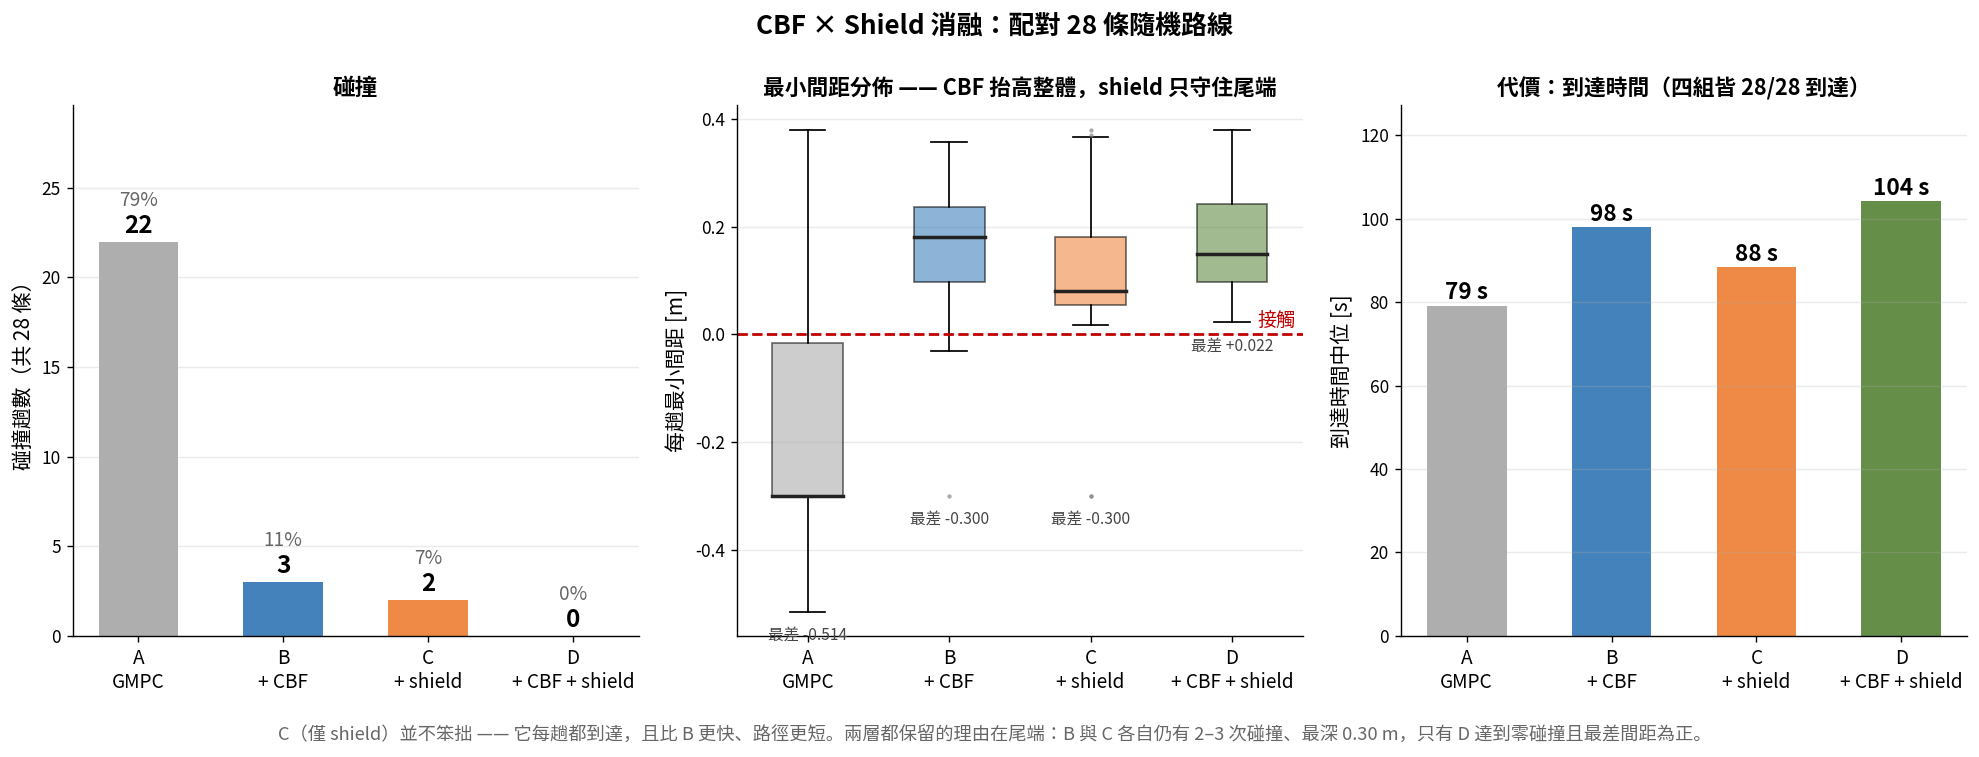
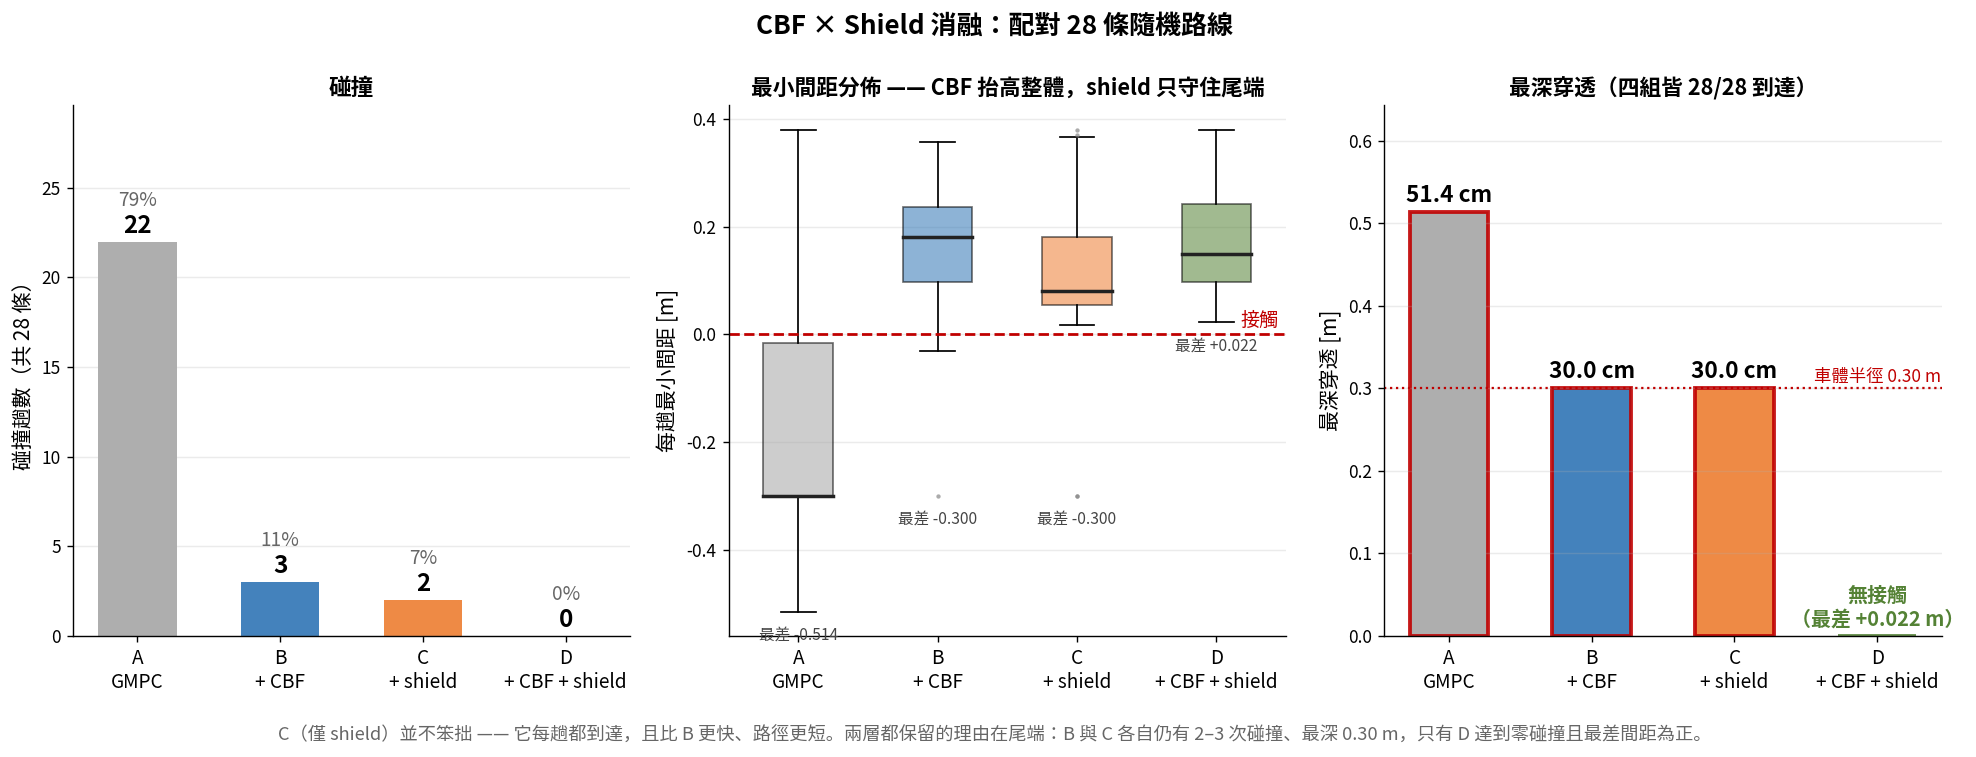
Auto-update: 2026-08-11 16:41

diff --git a/evaluation/plot_ablation2x2.py b/evaluation/plot_ablation2x2.py
@@ -8,7 +8,9 @@ Three panels, because the interesting result is not in the contact count alone.
           interchangeable: the CBF lifts the whole distribution because it
           avoids early, while the shield leaves it low and merely keeps the tail
           out of contact.
-  right   the cost, in arrival time.
+  right   worst penetration -- the depth that separates a graze from a
+          collision, and the only panel where D is qualitatively different
+          rather than merely better.
 
 C was expected to be safe but clumsy -- braking late, detouring badly, getting
 stuck. It is not: C arrives on every route, faster than B and by a shorter path.
@@ -96,15 +98,28 @@ axs[1].grid(axis='y', alpha=0.25)
 axs[1].spines[['top', 'right']].set_visible(False)
 
 # ------------------------------------------------------------- panel 3
+# Worst penetration rather than arrival time. The time cost is real (79 -> 104 s)
+# and stays in the results table; it just does not need a third of the headline
+# figure, where the safety story is what the panels are for.
 med = [float(np.median(t)) if t else float('nan') for t in tarr]
-axs[2].bar(x, med, 0.55, color=cols, alpha=0.9)
-for xx, v in zip(x, med):
-    axs[2].text(xx, v + 1.5, f'{v:.0f} s', ha='center', fontsize=13,
-                fontweight='bold')
+pen = [max(0.0, -w) for w in worst]
+bar_c = ['#c00000' if p > 0 else '#548235' for p in pen]
+axs[2].bar(x, pen, 0.55, color=cols, alpha=0.9,
+           edgecolor=bar_c, linewidth=2.2)
+for xx, p, w in zip(x, pen, worst):
+    if p > 0:
+        axs[2].text(xx, p + 0.012, f'{p*100:.1f} cm', ha='center', fontsize=13,
+                    fontweight='bold')
+    else:
+        axs[2].text(xx, 0.012, f'無接觸\n（最差 {w:+.3f} m）', ha='center',
+                    fontsize=11.5, fontweight='bold', color='#548235')
+axs[2].axhline(0.30, color='#c00000', lw=1.3, ls=':')
+axs[2].text(3.45, 0.308, '車體半徑 0.30 m', color='#c00000', fontsize=10,
+            ha='right')
 axs[2].set_xticks(x); axs[2].set_xticklabels(labels, fontsize=11)
-axs[2].set_ylabel('到達時間中位 [s]', fontsize=12)
-axs[2].set_ylim(0, max(med) * 1.22)
-axs[2].set_title('代價：到達時間（四組皆 28/28 到達）',
+axs[2].set_ylabel('最深穿透 [m]', fontsize=12)
+axs[2].set_ylim(0, max(max(pen) * 1.25, 0.36))
+axs[2].set_title('最深穿透（四組皆 28/28 到達）',
                  fontsize=12.5, fontweight='bold')
 axs[2].grid(axis='y', alpha=0.25)
 axs[2].spines[['top', 'right']].set_visible(False)
